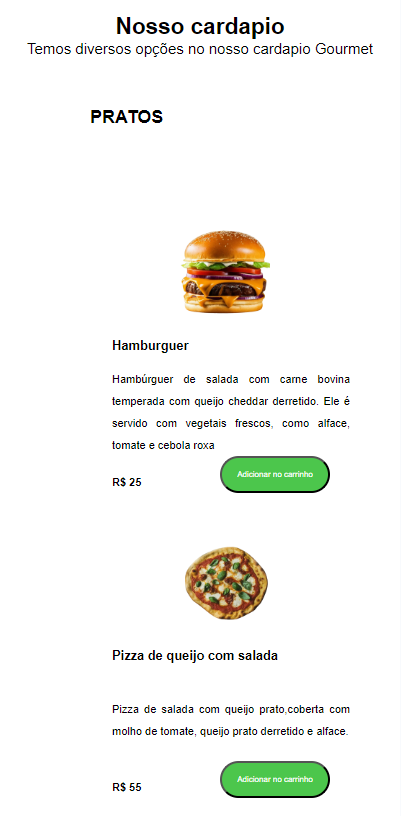
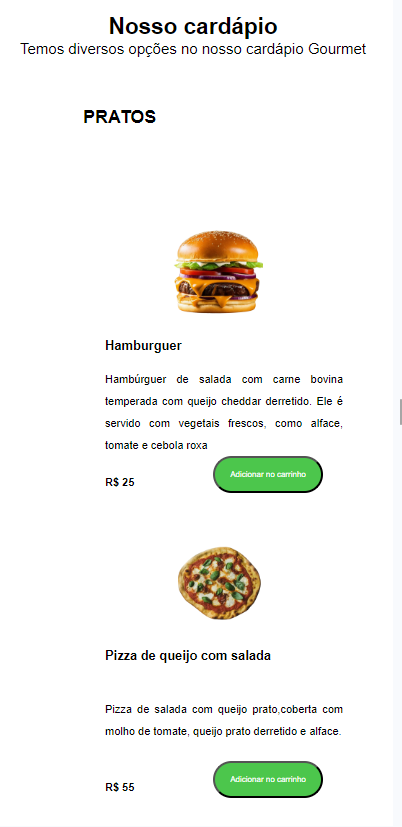
Atualização do README

diff --git a/index.html b/index.html
@@ -43,8 +43,8 @@
         </div>
     </div>
     <div class="description-title">
-        <h2>Nosso cardapio</h2>
-        <p>Temos diversos opções no nosso cardapio Gourmet</p>
+        <h2>Nosso cardápio</h2>
+        <p>Temos diversos opções no nosso cardápio Gourmet</p>
     </div>
     <div class="title-menu">
         <h2>PRATOS</h2>

diff --git a/README.md b/README.md
@@ -10,21 +10,21 @@ Na seção "Sobre a Lanchonete", os visitantes podem explorar informações deta
 Este projeto foi desenvolvido com o objetivo de proporcionar uma plataforma intuitiva e acessível, focada em facilitar a compra de lanches para os clientes, enquanto oferece uma interface amigável e informativa.
 
 ## Layout mobile
-### Imagem da Localização 
+### Imagem da Página Principal  
 
 ![Mobile 1](img/imgInteriorMobile.png)
 
-### Imagem da escolha dos Móveis 
+###  Imagem do Cardápio 
 
 ![Mobile 1](img/imgInteriorMobile2.png) 
 
 
 ## Layout web
-### Imagem da Localização 
+### Imagem da Página Principal 
 
 ![Web 1](img/imgInteriorWeb.png)
 
-### Imagem da escolha dos móveis
+###  Imagem do Cardápio 
 
 
 ![Web 1](img/imgInteriorWeb2.png)
